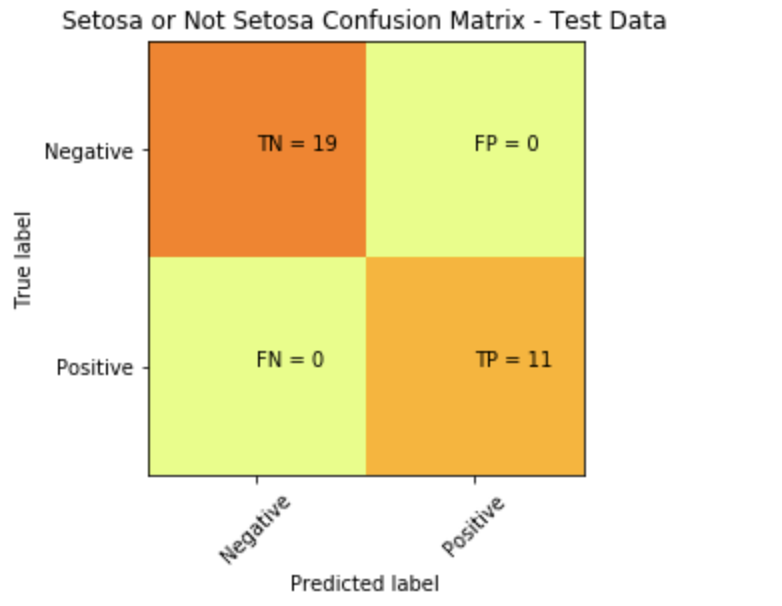
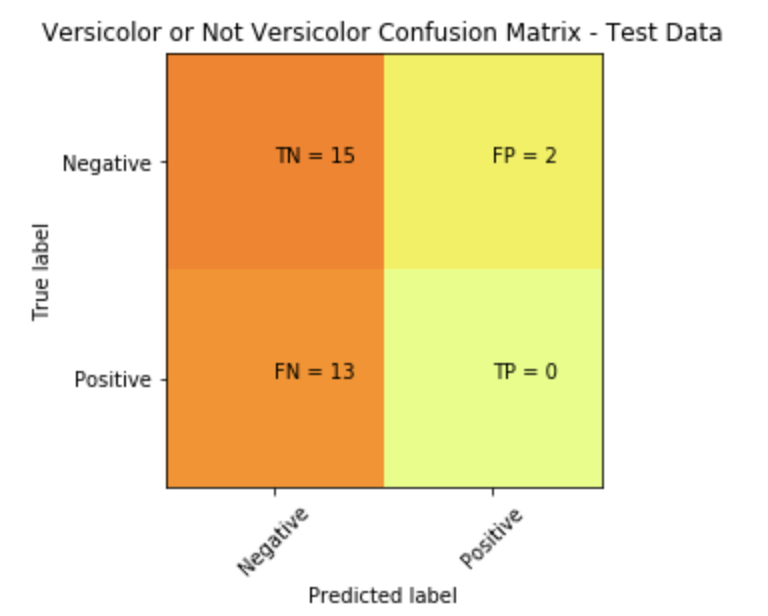
fixes and updates

diff --git a/_posts/2017-12-24-How-To-Plot-A-Confusion-Matrix-In-Python.md b/_posts/2017-12-24-How-To-Plot-A-Confusion-Matrix-In-Python.md
@@ -3,15 +3,19 @@ layout: post
 post: How to plot a Confusion Matrix in Python
 ---
 
-Here is an example to show how you can plot the Confusion Matrix from Scikit-Learn to display in a more intuitive visual format. 
+In this post I will demonstrate how to plot the Confusion Matrix. I will be using the confusion martrix from the Scikit-Learn library (`sklearn.metrics.confusion_matrix`) and Matplotlib for displaying the results in a more intuitive visual format. 
 
 The documentation for **[Confusion Matrix](http://scikit-learn.org/stable/modules/generated/sklearn.metrics.confusion_matrix.html)** is pretty good, but I struggled to find a quick way to add labels and visualize the output into a 2x2 table.
 
-For a good introductory read on confusion matrix check out this great post:  
+For a good introductory read on confusion matrix check out this great post: 
 
-<http://www.dataschool.io/simple-guide-to-confusion-matrix-terminology>
+<http://www.dataschool.io/simple-guide-to-confusion-matrix-terminology>  
 
-Let's go through a quick Logistic Regression example using Scikit-Learn where in the end we will visualize the confusion matrix using matplotlib:
+This is a mockup of the look I am trying to achieve: 
+
+![png]({{ site.baseurl }}/images/mock.png)
+
+Let's go through a quick **Logistic Regression** example using Scikit-Learn,I will use the **confusion matrix** to evaluate the accuracy of the classification and plot it using matplotlib:
 
 {% highlight python %}
 import numpy as np
@@ -27,22 +31,25 @@ df.head()
 {% endhighlight %}
 
 
+{% highlight text %}
+    >>> output
+   show first 5 rows 
+{% endhighlight %}
 | sepal length (cm) | sepal width (cm) | petal length (cm) | petal width (cm) | Target |      |
 | ---------------- | ---------------- | ----------------- | ---------------- | ------ | ---- |
-| 0                | 5.1              | 3.5               | 1.4              | 0.2    | 0    |
-| 1                | 4.9              | 3.0               | 1.4              | 0.2    | 0    |
-| 2                | 4.7              | 3.2               | 1.3              | 0.2    | 0    |
-| 3                | 4.6              | 3.1               | 1.5              | 0.2    | 0    |
-| 4                | 5.0              | 3.6               | 1.4              | 0.2    | 0 
+| 5.1              | 3.5               | 1.4              | 0.2    | 0    |
+| 4.9              | 3.0               | 1.4              | 0.2    | 0    |
+| 4.7              | 3.2               | 1.3              | 0.2    | 0    |
+| 4.6              | 3.1               | 1.5              | 0.2    | 0    |
+| 5.0              | 3.6               | 1.4              | 0.2    | 0 
 
-We can examine our data quickly using Pandas correlation function to pick a suitable feature for our logistic regression.
+We can examine our data quickly using Pandas correlation function to pick a suitable feature for our logistic regression. We will use the default pearson method. 
 
 
 {% highlight python %}
 corr = df.corr()
 print(corr.Target)
 {% endhighlight %}
-
 
 
 {% highlight text %}
@@ -55,7 +62,7 @@ print(corr.Target)
     Name: Target, dtype: float64
 {% endhighlight %}
 
-So, let's pick Petal Width (cm) as our (X) independent variable. For our Target/dependent variable (Y) we can pick the Setosa class. The Target class actually has three choices, to simplify our task and narrow it down to a binary classifier we will pick Setosa (0 or 1): either it is Setosa (1) or it is Not Setosa (0).
+So, let's pick the two with highest potential: Petal Width (cm) and Petal Lengthh (cm) as our (X) independent variables. For our Target/dependent variable (Y) we can pick the Versicolor class. The Target class actually has three choices, to simplify our task and narrow it down to a binary classifier I will pick Versicolor to narrow our classification classes to (0 or 1): either it is versicolor (1) or it is Not versicolor (0).
 
 {% highlight python %}
 print(data.target_names)
@@ -67,20 +74,33 @@ print(data.target_names)
       dtype='<U10')
 {% endhighlight  %}  
 
-Let's now create X and Y:
+Let's now create our X and Y:
 
 {% highlight python %}
 x = df.iloc[0: ,3].reshape(-1,1)
-y = (data.target == 0).astype(np.int) # we are picking Setosa to be 1 and all other classes will be 0
+y = (data.target == 1).astype(np.int) # we are picking Versicolor to be 1 and all other classes will be 0
 {% endhighlight  %}
 
-We will split our data into a test and train sets, then start building our Logistic Regression model.
+We will split our data into a test and train sets, then start building our Logistic Regression model. We will use an 80/20 split.
 
 {% highlight python %}
 from sklearn.cross_validation import train_test_split
 
 x_train, x_test, y_train, y_test = train_test_split(x,y, test_size = 0.20, random_state = 0)
+{% endhighlight %}
 
+Before we create our classifier, we will need to normalize the data (feature scaling) using the utility function `StandardScalar` part of Scikit-Learn preprocessing package. 
+
+{% highlight python %}
+from sklearn.preprocessing import StandardScaler
+sc_x = StandardScaler()
+x_train = sc_x.fit_transform(x_train)
+x_test = sc_x.transform(x_test)
+{% endhighlight %}
+
+Now we are ready to build our Logistic Classifier:
+
+{% highlight python %}
 from sklearn.linear_model import LogisticRegression
 logit = LogisticRegression(random_state= 0)
 logit.fit(x_train, y_train)
@@ -88,7 +108,7 @@ logit.fit(x_train, y_train)
 y_predicted = logit.predict(x_test)
 {% endhighlight %}
 
-Now, let's examine our confusion matrix:
+Now, let's evaluate our classifier with the confusion matrix:
 
 {% highlight python %}
 from sklearn.metrics import confusion_matrix
@@ -99,16 +119,18 @@ print(cm)
 
 {% highlight text %}
     >>> output
-    [[19  0]
-    [ 0 11]]
+    [[15  2]
+    [ 13 0]]
 {% endhighlight %}
 
-The confusion matrix tells us we got everything classified correctly (in terms of: Setosa, or Not Setosa). A better way to visualize this can be accomplished with the code below:
+Visually the above doesn't easily convey how is our classifier performing, but we mainly focus on the top right and bottom left (these are the errors or misclassifications).
+
+The confusion matrix tells us we a have total of 15 (13 + 2) misclassified data out of the 30 test points (in terms of: Versicolor, or Not Versicolor. A better way to visualize this can be accomplished with the code below:
 
 {% highlight python %}
 plt.imshow(cm, interpolation='nearest', cmap=plt.cm.Wistia)
 classNames = ['Negative','Positive']
-plt.title('Setosa or Not Setosa Confusion Matrix - Test Data')
+plt.title('Versicolor or Not Versicolor Confusion Matrix - Test Data')
 plt.ylabel('True label')
 plt.xlabel('Predicted label')
 tick_marks = np.arange(len(classNames))
@@ -119,12 +141,16 @@ s = [['TN','FP'], ['FN', 'TP']]
 for i in range(2):
     for j in range(2):
         plt.text(j,i, str(s[i][j])+" = "+str(cm[i][j]))
-plt.show()
 {% endhighlight %}
 
 ![png]({{ site.baseurl }}/images/cm.png)
 
-To plot and display the decision boundary that separates the two classes (Setosa or Not Setosa ):
+* TN = True Negative
+* FN = False Negative
+* FP = False Positive
+* TP = True Positive
+
+To plot and display the decision boundary that separates the two classes (Versicolor or Not Versicolor ):
 
 {% highlight python %}
 from matplotlib.colors import ListedColormap
@@ -138,7 +164,7 @@ plt.ylim(X2.min(), X2.max())
 for i, j in enumerate(np.unique(y_set)):
     plt.scatter(X_set[y_set == j, 0], X_set[y_set == j, 1],
                 c = ListedColormap(('red', 'green'))(i), label = j)
-plt.title('Logistic Regression (Train set)')
+plt.title('Logistic Regression (Test set)')
 plt.xlabel('Age')
 plt.ylabel('Estimated Salary')
 plt.legend()
@@ -146,5 +172,39 @@ plt.show()
 {% endhighlight %}
 
 ![png]({{ site.baseurl }}/images/logit.png)
+
+Will from the two plots we can easily see that the classifier is not doing a good job. And before digging into why (which will be another post on how to determine if data is linearly separable or not), we can see assume that the reason is because the data is not linearly separable (for the IRIS dataset in fact only setosa class is linearly separable).
+
+We can try another non-linear classifier, in this case we can use SVM with a Gaussian RBF Kernel:
+
+{% highlight python %}
+from sklearn.svm import SVC
+svm = SVC(kernel='rbf', random_state=0)
+svm.fit(x_train, y_train)
+
+predicted = svm.predict(x_test)
+
+cm = confusion_matrix(y_test, predicted)
+
+plt.imshow(cm, interpolation='nearest', cmap=plt.cm.Wistia)
+classNames = ['Negative','Positive']
+plt.title('SVM Linear Kernel Confusion Matrix - ALL Data')
+plt.ylabel('True label')
+plt.xlabel('Predicted label')
+tick_marks = np.arange(len(classNames))
+plt.xticks(tick_marks, classNames, rotation=45)
+plt.yticks(tick_marks, classNames)
+s = [['TN','FP'], ['FN', 'TP']]
+
+for i in range(2):
+    for j in range(2):
+        plt.text(j,i, str(s[i][j])+" = "+str(cm[i][j]))
+{% endhighlight %}
+
+![png]({{ site.baseurl }}/images/cm2.png)
+
+Here is the plot to show the decision boundary
+
+![png]({{ site.baseurl }}/images/svm.png)
 
 Hope this helps.
